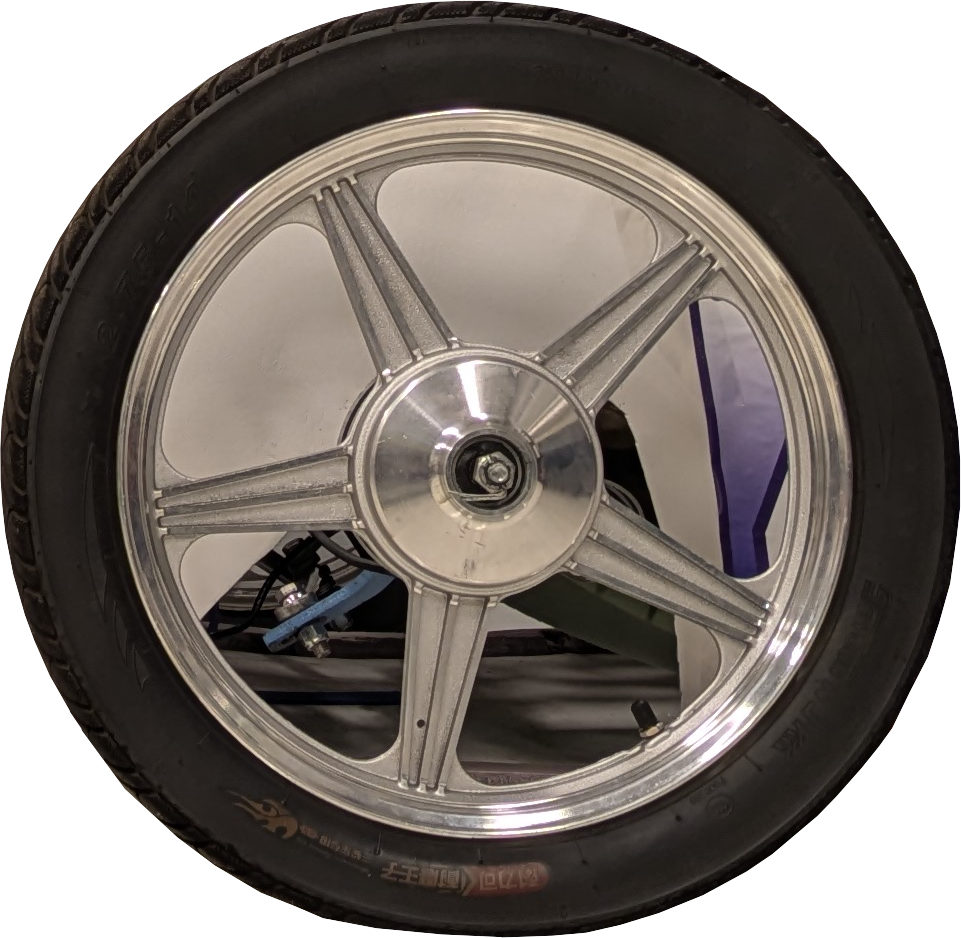
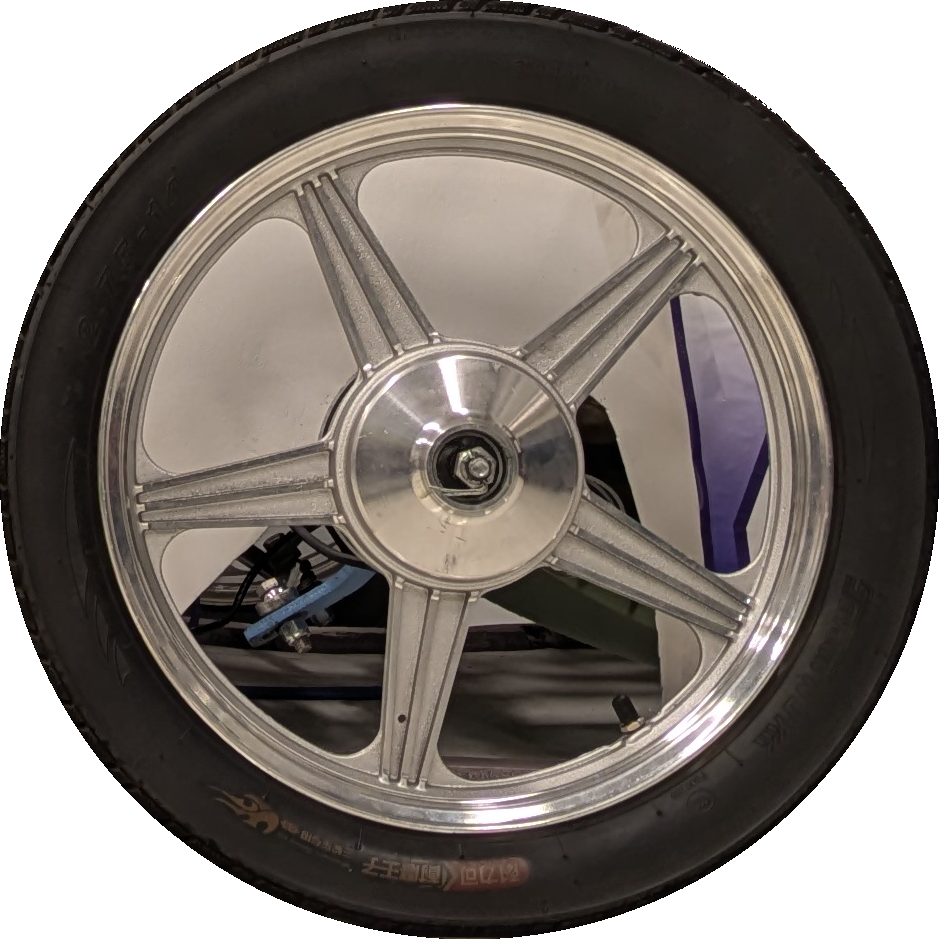
Do a better job of cropping the wheel

diff --git a/input.css b/input.css
@@ -361,23 +361,23 @@
   }
 
   /* Under the front wheels, which are closer to the camera so touch down
-     lower, at (2661, 1472) */
+     lower, at (2678, 1479) */
   .drive-car::after {
-    left: 57.4%;
+    left: 57.8%;
     width: 21%;
-    top: 96.2%;
+    top: 96.7%;
     height: 6.6%;
     background: radial-gradient(closest-side, rgb(6 16 69 / 0.75), rgb(6 16 69 / 0.3) 55%, transparent);
   }
 
-  /* Car_Wheel.png (961×938) sits at (2190, 536) in Car_Side.png */
+  /* Car_Wheel.png (939×939, cropped to a circle around the axle) sits at
+     (2209, 541) in Car_Side.png, so it spins about its center (2678.5, 1010.5) */
   .drive-car .drive-wheel {
     @apply absolute;
-    left: 55.825%;
-    top: 36.241%;
-    width: 24.497%;
-    /* Axle (center of the rim and hub) in Car_Wheel.png, at (471, 475) */
-    transform-origin: 49.01% 50.64%;
+    left: 56.309%;
+    top: 36.579%;
+    width: 23.936%;
+    transform-origin: 50% 50%;
   }
 
   /* Pinned, scroll-driven version (main.js adds .is-driving) */
@@ -396,10 +396,10 @@
   }
 
   /* Drive through the middle of the content rather than below it. Centers the
-     car itself (top of Car_Side.png down to the wheel bottom, 1472 of 3923) */
+     car itself (top of Car_Side.png down to the wheel bottom, 1479 of 3923) */
   .drive.is-driving .drive-car {
     @apply absolute left-0 m-0 will-change-transform;
-    top: calc(50% - var(--car-w) * 0.1876);
+    top: calc(50% - var(--car-w) * 0.1885);
   }
 
   .drive.is-driving .drive-wheel,

diff --git a/style.css b/style.css
@@ -901,18 +901,18 @@
     mask-image: linear-gradient(to right, transparent, #000 14%);
   }
   .drive-car::after {
-    left: 57.4%;
+    left: 57.8%;
     width: 21%;
-    top: 96.2%;
+    top: 96.7%;
     height: 6.6%;
     background: radial-gradient(closest-side, rgb(6 16 69 / 0.75), rgb(6 16 69 / 0.3) 55%, transparent);
   }
   .drive-car .drive-wheel {
     position: absolute;
-    left: 55.825%;
-    top: 36.241%;
-    width: 24.497%;
-    transform-origin: 49.01% 50.64%;
+    left: 56.309%;
+    top: 36.579%;
+    width: 23.936%;
+    transform-origin: 50% 50%;
   }
   .drive.is-driving {
     height: 300svh;
@@ -937,7 +937,7 @@
     left: 0;
     margin: 0;
     will-change: transform;
-    top: calc(50% - var(--car-w) * 0.1876);
+    top: calc(50% - var(--car-w) * 0.1885);
   }
   .drive.is-driving .drive-wheel, .drive.is-driving .drive-text > *, .drive.is-driving .drive-photo > * {
     will-change: transform;

diff --git a/main.js b/main.js
@@ -50,7 +50,7 @@ if (drive && !reduceMotion.matches) {
   const photo = drive.querySelector(".drive-photo");
 
   // Wheel radius as a fraction of the car image width
-  const WHEEL_RADIUS = 465 / 3923;
+  const WHEEL_RADIUS = 469.5 / 3923;
   // Gap between the back of the car and whatever follows it
   const GAP = 32;
   // Portion of the scroll spent driving; the rest holds the finished layout
